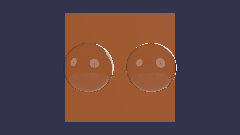
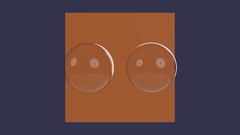
Reduce high-MAD parity scenes
Separate Babylon volume, thickness-depth, and glTF IOR semantics, match default texture anisotropy for .babylon assets, tighten parity gates, and refresh status previews.

Copilot-Session: 87ef8b8e-7295-4ff1-8150-ae097b0a41e5

diff --git a/src/compiler.ts b/src/compiler.ts
@@ -1053,6 +1053,8 @@ class Compiler {
                     transmission,
                     ior,
                     thickness,
+                    useThicknessAsDepth,
+                    hasVolume,
                     attenuationColor,
                     attenuationDistance,
                 ] =
@@ -1071,7 +1073,7 @@ class Compiler {
                 }
                 return {
                     kind: "material",
-                    cpp: `bbl::create_pbr_material(${engine}, bbl::PbrMaterialOptions{${baseColor.cpp}, ${orm.cpp}, ${metallic}, ${roughness}, ${direct}, ${environment}, ${alpha}, ${reflectance}, ${unlit}, ${doubleSided}, ${skyboxMode}, ${transmission}, ${ior}, ${thickness}, ${attenuationColor}, ${attenuationDistance}})`,
+                    cpp: `bbl::create_pbr_material(${engine}, bbl::PbrMaterialOptions{${baseColor.cpp}, ${orm.cpp}, ${metallic}, ${roughness}, ${direct}, ${environment}, ${alpha}, ${reflectance}, ${unlit}, ${doubleSided}, ${skyboxMode}, ${transmission}, ${ior}, ${thickness}, ${useThicknessAsDepth}, ${hasVolume}, ${attenuationColor}, ${attenuationDistance}})`,
                     engineCpp: engine,
                 };
             }
@@ -1813,6 +1815,8 @@ class Compiler {
         string,
         string,
         string,
+        string,
+        string,
     ] {
         const object = this.expectObjectLiteral(expression);
         const supported = new Set([
@@ -1872,6 +1876,8 @@ class Compiler {
         let transmission = "0.0f";
         let ior = "1.5f";
         let thickness = "0.0f";
+        let useThicknessAsDepth = "false";
+        let hasVolume = "false";
         let attenuationColor = "bbl::Color3{1.0f, 1.0f, 1.0f}";
         let attenuationDistance = "1.0f";
         if (subsurfaceExpression) {
@@ -1887,6 +1893,10 @@ class Compiler {
                     refraction,
                     "indexOfRefraction",
                 );
+                const thicknessAsDepth = this.objectProperty(
+                    refraction,
+                    "useThicknessAsDepth",
+                );
                 transmission = intensity
                     ? this.compileNumber(intensity)
                     : transmissive
@@ -1895,6 +1905,9 @@ class Compiler {
                 ior = indexOfRefraction
                     ? this.compileNumber(indexOfRefraction)
                     : "1.5f";
+                useThicknessAsDepth = thicknessAsDepth
+                    ? this.compileBoolean(thicknessAsDepth)
+                    : "false";
             }
             const thicknessExpression = this.objectProperty(
                 subsurface,
@@ -1911,6 +1924,7 @@ class Compiler {
                 const tint = this.expectObjectLiteral(tintExpression);
                 const color = this.objectProperty(tint, "color");
                 const distance = this.objectProperty(tint, "atDistance");
+                hasVolume = distance ? "true" : "false";
                 attenuationColor = color
                     ? this.compileColor3(color)
                     : attenuationColor;
@@ -1934,6 +1948,8 @@ class Compiler {
             transmission,
             ior,
             thickness,
+            useThicknessAsDepth,
+            hasVolume,
             attenuationColor,
             attenuationDistance,
         ];

diff --git a/test/upstream.test.ts b/test/upstream.test.ts
@@ -86,6 +86,7 @@ test("generates GLB framing validation from upstream constants", () => {
     assert.match(adapter.source, /KHR_materials_volume/);
     assert.match(adapter.source, /material\.transmission_texture/);
     assert.match(adapter.source, /material\.thickness_texture/);
+    assert.match(adapter.source, /material\.use_thickness_as_depth = true/);
     assert.doesNotMatch(adapter.source, /pal::load_glb/);
 });
 
@@ -96,6 +97,7 @@ test("generates the Babylon loader adapter from pinned scene semantics", () => {
     assert.match(lowered.source, /AssetHandle load_babylon/);
     assert.match(lowered.source, /material\.standard_material = true/);
     assert.match(lowered.source, /material\.alpha_cutoff = 0\.4f/);
+    assert.match(lowered.source, /result\.sampler\.max_anisotropy = 4\.0f/);
     assert.match(lowered.source, /engine\.reflection_cubes/);
     assert.match(lowered.source, /PrimitiveKind::babylon/);
     assert.match(lowered.source, /create_free_camera/);
@@ -145,6 +147,12 @@ test("generates reached PBR material scalar fields", () => {
     assert.match(material.source, /material\.direct_intensity/);
     assert.match(material.source, /material\.environment_intensity/);
     assert.match(material.source, /material\.reflectance/);
+    assert.match(material.source, /material\.has_ior = false/);
+    assert.match(
+        material.source,
+        /material\.use_thickness_as_depth = options\.use_thickness_as_depth/,
+    );
+    assert.match(material.source, /material\.has_volume = options\.has_volume/);
     assert.match(material.source, /options\.alpha < 1\.0f/);
 });
 
@@ -199,7 +207,7 @@ test("lowers the reachable upstream light matrix implementation", () => {
 
 test("generates the render plan from upstream frame-graph binding semantics", () => {
     const lowerer = new RendererLowerer(new LoweringContext());
-    const lowered = lowerer.lowerRenderPlan();
+    const lowered = lowerer.lowerRenderPlan({ transmission: true });
     const shaders = lowerer.lowerShaders();
     const fidelity = lowerer.fidelityManifest();
     assert.equal(lowered.modulePath, "src/frame-graph/render-task.ts");
@@ -230,6 +238,10 @@ test("generates the render plan from upstream frame-graph binding semantics", ()
     assert.match(lowered.source, /std::stable_sort/);
     assert.match(lowered.source, /bind_render_item/);
     assert.match(lowered.source, /sort_transparent_draws/);
+    assert.match(
+        lowered.source,
+        /material\.use_thickness_as_depth && material\.thickness > 0\.0f/,
+    );
     assert.match(
         lowered.source,
         /left\.sort_distance > right\.sort_distance/,

diff --git a/src/scene-registry.ts b/src/scene-registry.ts
@@ -263,8 +263,8 @@ export const scenes: readonly SceneDefinition[] = [
             },
             actual: "artifacts/parity/transmission-ior-native.png",
             outputDirectory: "artifacts/parity/transmission-ior",
-            maxFullMad: 0.8,
-            maxForegroundMad: 2,
+            maxFullMad: 0.2,
+            maxForegroundMad: 0.4,
             backgroundColor: [51, 51, 77],
             backgroundThreshold: 30,
         },
@@ -283,8 +283,8 @@ export const scenes: readonly SceneDefinition[] = [
             },
             actual: "artifacts/parity/transmission-volume-native.png",
             outputDirectory: "artifacts/parity/transmission-volume",
-            maxFullMad: 2.6,
-            maxForegroundMad: 7,
+            maxFullMad: 0.25,
+            maxForegroundMad: 0.6,
             backgroundColor: [51, 51, 77],
             backgroundThreshold: 30,
         },
@@ -369,8 +369,8 @@ export const scenes: readonly SceneDefinition[] = [
             },
             actual: "artifacts/parity/scene145-native.png",
             outputDirectory: "artifacts/parity/scene145",
-            maxFullMad: 3.1,
-            maxForegroundMad: 3.1,
+            maxFullMad: 1.5,
+            maxForegroundMad: 1.5,
             backgroundColor: [255, 255, 255],
             backgroundThreshold: 30,
         },

diff --git a/src/lowering/factory-lowerer.ts b/src/lowering/factory-lowerer.ts
@@ -585,15 +585,11 @@ MaterialHandle create_pbr_material(
     material.transmission_factor = options.transmission_factor;
     material.index_of_refraction = options.index_of_refraction;
     material.thickness = options.thickness;
+    material.use_thickness_as_depth = options.use_thickness_as_depth;
     material.attenuation_color = options.attenuation_color;
     material.attenuation_distance = options.attenuation_distance;
-    material.has_ior = options.index_of_refraction != 1.5f;
-    material.has_volume =
-        options.thickness > 0.0f ||
-        options.attenuation_distance != 1.0f ||
-        options.attenuation_color.r != 1.0f ||
-        options.attenuation_color.g != 1.0f ||
-        options.attenuation_color.b != 1.0f;
+    material.has_ior = false;
+    material.has_volume = options.has_volume;
     if (material.transmission_factor > 0.0f) {
         material.alpha_mode = MaterialAlphaMode::blend;
     }

diff --git a/src/lowering/renderer-lowerer.ts b/src/lowering/renderer-lowerer.ts
@@ -113,10 +113,10 @@ export class RendererLowerer {
                 : 1.0f;
         result.refraction_params = {
             material.transmission_factor,
-            1.0f / (material.has_volume && material.thickness > 0.0f
+            1.0f / (material.use_thickness_as_depth && material.thickness > 0.0f
                 ? ior
                 : 1.0f),
-            material.has_volume
+            material.use_thickness_as_depth
                 ? material.thickness * thickness_scale
                 : 0.0f,
             1.0f / ior,

diff --git a/test/compiler.test.ts b/test/compiler.test.ts
@@ -350,7 +350,7 @@ test("compiles independent transmission material gates", () => {
     assert.match(result.cpp, /bbl::enable_scene_transmission/);
     assert.match(
         result.cpp,
-        /PbrMaterialOptions\{[^}]*false, false, false, 1\.0f, 1\.5f, 1\.4f, bbl::Color3\{1\.0f, 0\.35f, 0\.06f\}, 1\.5f/,
+        /PbrMaterialOptions\{[^}]*false, false, false, 1\.0f, 1\.5f, 1\.4f, false, true, bbl::Color3\{1\.0f, 0\.35f, 0\.06f\}, 1\.5f/,
     );
 });
 

diff --git a/src/lowering/templates/gltf-loader-cpp.ts b/src/lowering/templates/gltf-loader-cpp.ts
@@ -373,6 +373,7 @@ MaterialHandle load_material(
                 optional(extensions, "KHR_materials_volume")) {
             const JsonObject& volume = volume_value->as_object();
             material.has_volume = true;
+            material.use_thickness_as_depth = true;
             material.thickness =
                 float_or(volume, "thicknessFactor", 0.0f);
             const std::vector<float> attenuation =

diff --git a/src/lowering/templates/babylon-loader-cpp.ts b/src/lowering/templates/babylon-loader-cpp.ts
@@ -71,6 +71,7 @@ TextureData texture_data(
     result.bytes = pal::read_binary_file(pal::join_path(base_path, relative));
     result.sampler.address_u = address_mode(*found, "wrapU");
     result.sampler.address_v = address_mode(*found, "wrapV");
+    result.sampler.max_anisotropy = 4.0f;
     result.invert_y = true;
     return result;
 }

diff --git a/native/include/bblite/runtime.hpp b/native/include/bblite/runtime.hpp
@@ -248,6 +248,8 @@ struct PbrMaterialOptions {
     float transmission_factor = 0.0f;
     float index_of_refraction = 1.5f;
     float thickness = 0.0f;
+    bool use_thickness_as_depth = false;
+    bool has_volume = false;
     Color3 attenuation_color{1.0f, 1.0f, 1.0f};
     float attenuation_distance = 1.0f;
 };
@@ -351,6 +353,7 @@ struct MaterialRecord {
     float transmission_factor = 0.0f;
     float index_of_refraction = 1.5f;
     float thickness = 0.0f;
+    bool use_thickness_as_depth = false;
     Color3 attenuation_color{1.0f, 1.0f, 1.0f};
     float attenuation_distance = 1.0f;
     bool has_ior = false;

diff --git a/docs/status.md b/docs/status.md
@@ -47,14 +47,14 @@ Thresholds live in `src/scene-registry.ts`; run one scene with
 | 13 | <img src="images/scenes/scene13.png" alt="Scene 13 rendering" width="120"> | 0.010 | 0.081 | material grid, explicit occlusion semantics |
 | 32 | <img src="images/scenes/scene32.png" alt="Scene 32 rendering" width="120"> | 0.000 | 0.000 | `KHR_materials_unlit` |
 | 116 | <img src="images/scenes/scene116.png" alt="Scene 116 rendering" width="120"> | 0.000021 | 0.000150 | no-color material views, depth targets |
-| 145 | <img src="images/scenes/scene145.png" alt="Scene 145 rendering" width="120"> | 2.975 | 2.935 | `.babylon`, Standard geometry outputs |
+| 145 | <img src="images/scenes/scene145.png" alt="Scene 145 rendering" width="120"> | 1.331 | 1.309 | `.babylon`, Standard geometry outputs, default anisotropy |
 | 146 | <img src="images/scenes/scene146.png" alt="Scene 146 rendering" width="120"> | 0.877 | 0.896 | PBR geometry outputs, 7+4 MRT composition |
 | 163 | <img src="images/scenes/scene163.png" alt="Scene 163 rendering" width="120"> | 0.000 | 0.000 | custom shader blend, alpha test, discard |
 | 168 | <img src="images/scenes/scene168.png" alt="Scene 168 rendering" width="120"> | 0.068 | 0.389 | mirrored double-sided winding; 100% within one byte |
 | transmission-skybox | <img src="images/scenes/transmission-skybox.png" alt="PBR skybox rendering" width="120"> | 0.091 | 0.091 | independent PBR skybox-mode gate |
 | transmission-scene-color | <img src="images/scenes/transmission-scene-color.png" alt="Scene-color transmission" width="120"> | 0.044 | 0.208 | linear RGBA16F scene-color transmission |
-| transmission-ior | <img src="images/scenes/transmission-ior.png" alt="Transmission IOR" width="120"> | 0.722 | 1.814 | dielectric Fresnel from IOR |
-| transmission-volume | <img src="images/scenes/transmission-volume.png" alt="Transmission volume" width="120"> | 2.553 | 6.815 | Beer-Lambert volume attenuation |
+| transmission-ior | <img src="images/scenes/transmission-ior.png" alt="Transmission IOR" width="120"> | 0.115 | 0.302 | refraction IOR without glTF-only dielectric F0 |
+| transmission-volume | <img src="images/scenes/transmission-volume.png" alt="Transmission volume" width="120"> | 0.170 | 0.454 | Beer-Lambert volume and independent thickness-as-depth |
 | 176 | <img src="images/scenes/scene176.png" alt="Mosquito in Amber" width="120"> | 0.418 | 0.418 | integrated linear transmission, IOR, volume, and scene-color copy |
 | 213 | <img src="images/scenes/scene213.png" alt="Scene 213 rendering" width="120"> | 0.001 | 0.012 | GridMaterial opaque/transparent families and ordered draw lists |
 | 248 | <img src="images/scenes/scene248.png" alt="Scene 248 rendering" width="120"> | 0.001 | 0.005 | external glTF and sampler modes |
@@ -64,8 +64,9 @@ Thresholds live in `src/scene-registry.ts`; run one scene with
 | 273 | <img src="images/scenes/scene273.png" alt="Scene 273 rendering" width="120"> | 0.000 | 0.000 | post-registration material-family addition |
 | 274 | <img src="images/scenes/scene274.png" alt="Scene 274 rendering" width="120"> | 0.000 | 0.000 | 4x-MSAA alpha-to-coverage |
 
-Scene 145's screen-depth mismatch was fixed; its remaining residual is
-edge/raster and texture coverage. Scene 146's largest residuals are
+Scene 145's full-size HillValley render is `0.389` MAD; its aggregate residual
+is concentrated in edge coverage inside the six-times-downscaled geometry
+preview tiles. Scene 146's largest residuals are
 view/world-normal and real-color tiles. Scene 13's
 full-image value includes the known generated-ground composition difference.
 Scene 8's skybox outside the glass sphere is effectively exact (`0.00023`

diff --git a/docs/fidelity.md b/docs/fidelity.md
@@ -69,6 +69,10 @@ Transmission uses an opaque scene-color copy, dielectric Fresnel
 `((ior-1)/(ior+1))²`, and Beer-Lambert volume attenuation
 `exp(log(color)/distance*thickness)`. Independent skybox, scene-color, IOR,
 volume, and scene 176 gates keep the dependency chain observable.
+The generated material records preserve Babylon's distinction between volume
+attenuation, thickness-based refraction depth, and glTF-only IOR-to-F0
+mapping; direct `createPbrMaterial` refraction options do not implicitly enable
+the glTF dielectric adaptations.
 The scene-color source is RGBA16F and remains linear through opaque and
 transmissive draws; exposure, tone mapping, gamma, and contrast run once in a
 final full-screen pass.
